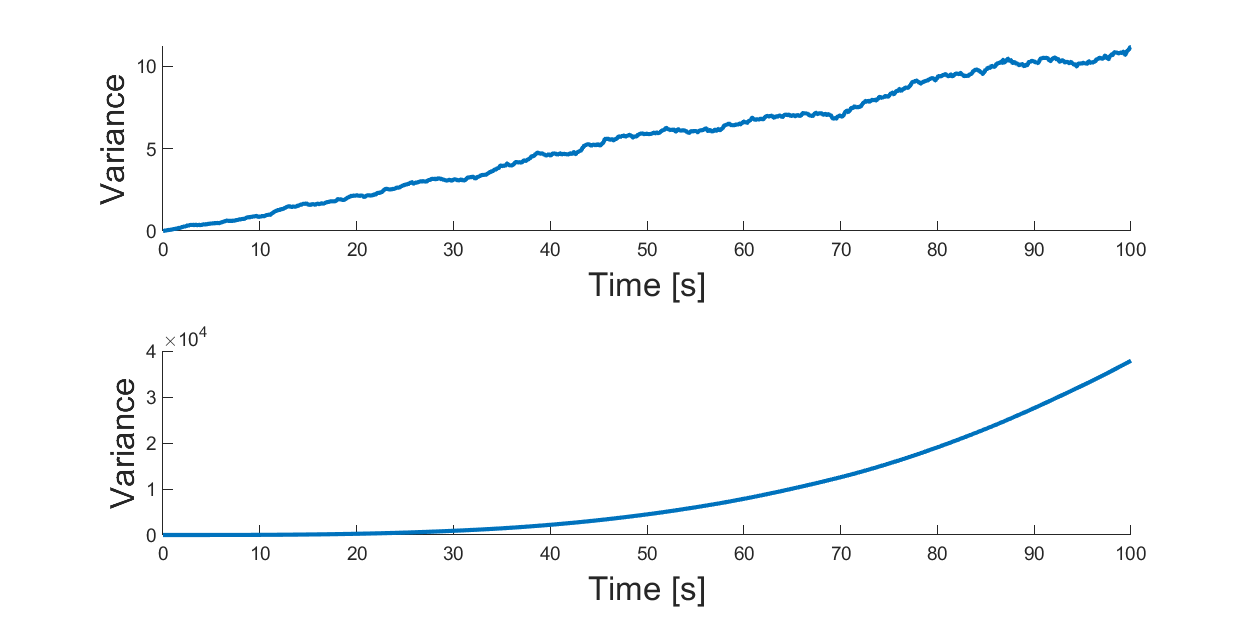
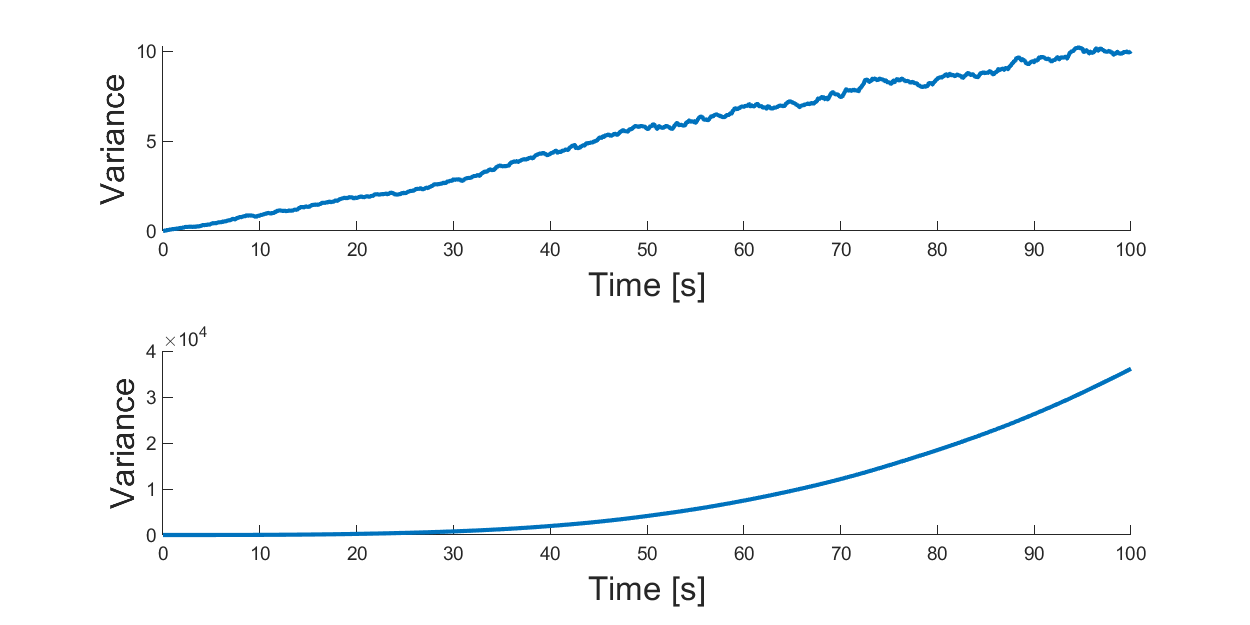
finished hw1

diff --git a/hw1.tex b/hw1.tex
@@ -54,7 +54,7 @@
         \part{How many significant digits are required after the decimal in the arc-seconds field if represented in degrees, arc-minutes, and arc-seconds to describe the same accuracy (1 cm)?}
 
         \solution{
-            Because we know at least 8 significant digits are necessary for under 1 centimeter accuracy for the degree-decimal format and $1 \:\text{[deg]} = 60\: \text{[arc-minutes]}$, we can say that 7 significant digits of precision are necessary for an arc-minutes format. Furthermore, because 3600 arc-seconds occupy 1 degree of latitude, we can say the 5 significant digits of precision are necessary when in the arc-seconds format.
+            Because we know at least 8 significant digits are necessary for under 1 centimeter accuracy for the degree-decimal format and $1 \:\text{[deg]} = 60\: \text{[arc-minutes]}$, we can say that 9 significant digits of precision are necessary for an arc-minutes format. Furthermore, because 3600 arc-seconds occupy 1 degree of latitude, we can say the 10 significant digits of precision are necessary when in the arc-seconds format.
         }
     \end{parts}
     Note: $1 \:\text{[deg]} = 60\: \text{[arc-minutes]}$ and $1\: \text{[arc-minute]} = 60\: \text{[arc-seconds]}$
@@ -74,15 +74,17 @@
                 \caption{Estimated longitude and latitude at different lines of bearing}
                 \label{table:1}
                 \centering
-                \begin{tabular}{|c|c|c|c|c|c|}
+                \begin{tabular}{|c|c|c|c|c|}
                     \hline
-                              & \multicolumn{4}{|c|}{Number of Lines of Bearing} &                                      \\
+                                                   & \multicolumn{3}{|c|}{Number of Lines of Bearing} &                               \\
                     \hline
-                              & 1                                                & 2      & 3      & 4      & True      \\
+                                                   & 2                                                & 3       & 4       & True      \\
                     \hline
-                    Latitude  & 32.606                                           & 32.606 & 32.606 & 32.606 & 32.605556 \\
+                    Latitude                       & 32.604                                           & 32.6049 & 32.6051 & 32.605556 \\
                     \hline
-                    Longitude & 84.490                                           & 84.490 & 84.490 & 84.490 & 85.49     \\
+                    Longitude                      & 84.4897                                          & 84.489  & 84.4901 & 85.49     \\
+                    \hline
+                    Accuracy (sig figs) [Lat/Long] & 2/1                                              & 2/1     & 3/2     & N/A       \\
                     \hline
                 \end{tabular}
             \end{table}
@@ -97,10 +99,9 @@
                 \includegraphics[width=.3\linewidth]{IMG_7250 2022-08-30 03_13_03.PNG}
             \end{figure}
         }
-        \clearpage
         \part{To how many significant digits was your estimated position accurate?}
 
-        \solution{Comparing my estimated and true position reveals that my latitude was accurate to 5 significant digits and my longitude to 4 significant figures. I was surprised to see the accuracy of my estimated position. I believe this was due to the Google Earth app having very precise lines of latitude and longitude. This made it easy to make an estimate of my location by taking the average of the two lines of longitude out side of my predicted location.}
+        \solution{Comparing my estimated and true position reveals that my latitude was accurate to 3 significant digits and my longitude to 2 significant figures (see Table~\ref*{table:1}). I was surprised to see the accuracy of my estimated position. I believe this was due to the Google Earth app having very precise lines of latitude and longitude. This made it easy to make an estimate of my location by taking the average of the two lines of longitude out side of my predicted location.}
     \end{parts}
     \clearpage
     \question{Find and discuss a documented instance of a failure of navigation in a trans-oceanic flight. Be specific as to what went wrong and how this affected mission.}\\

diff --git a/q5.m b/q5.m
@@ -22,8 +22,8 @@ for i = 1:100
 
         [gaussianDistVector] = gaussianDistFCN([1 1],sigma,mean_q5);
         a(i,k) = b + gaussianDistVector;
-        v(i,k) = v(i,k-1) + a(i,k-1)*dt;
-        p(i,k) = p(i,k-1) + v(i,k-1)*dt + 0.5*a(i,k-1)*dt*dt;
+        v(i,k) = v(i,k-1) + a(i,k)*dt;
+        p(i,k) = p(i,k-1) + v(i,k)*dt;
 
     end
 
